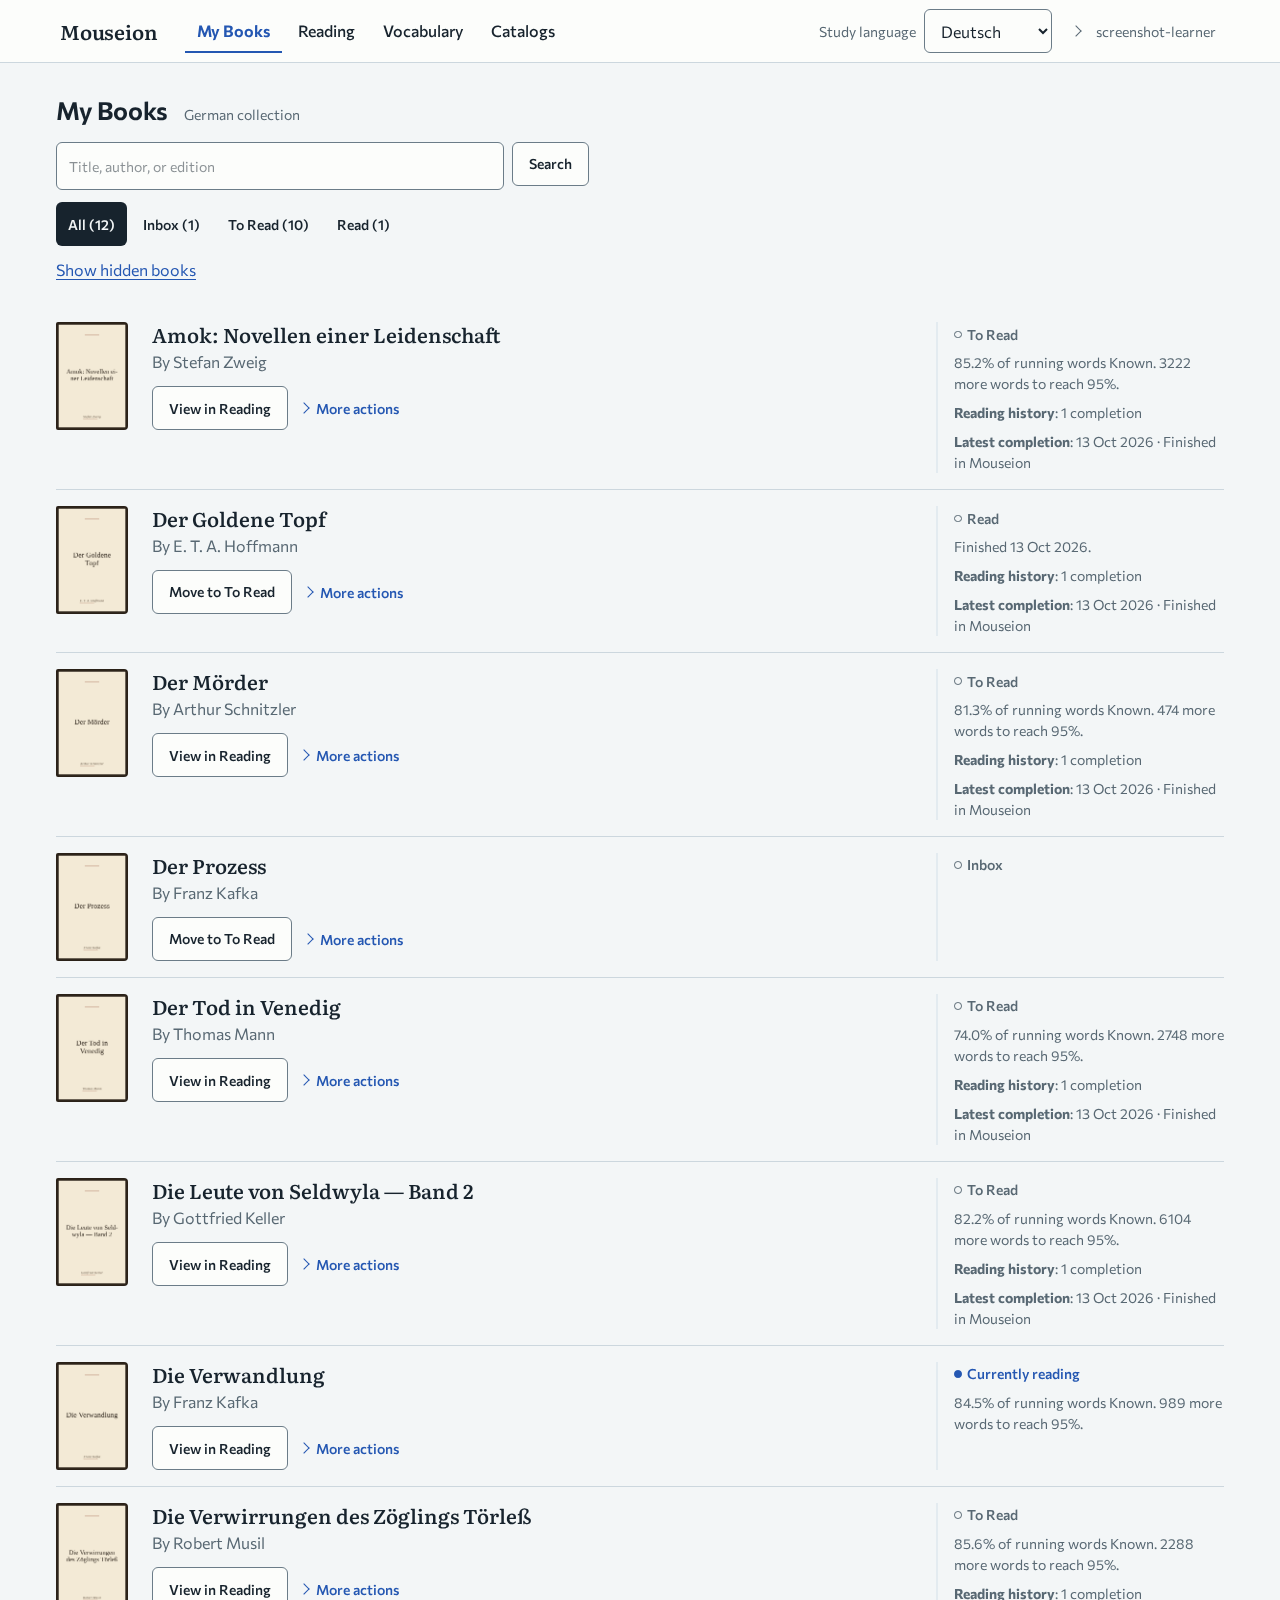
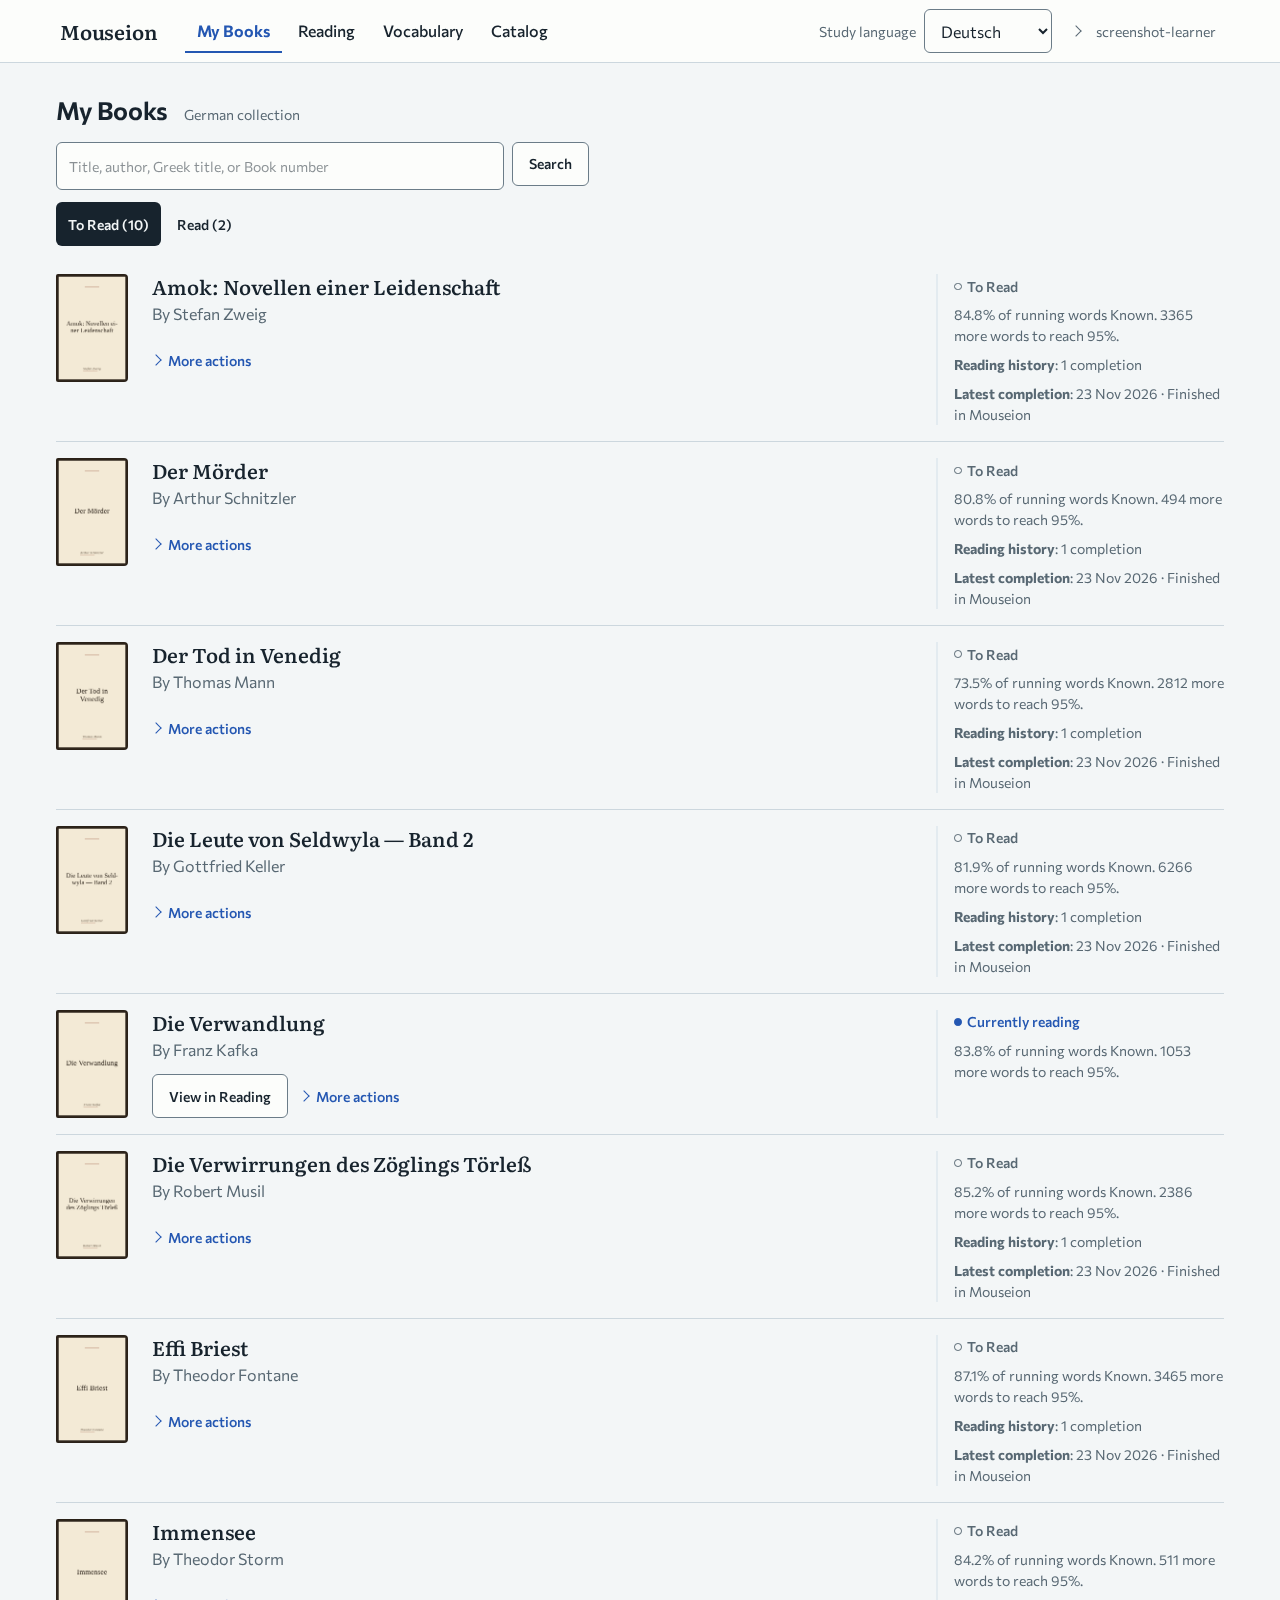
docs(readme): show both My Books tabs in the regenerated screenshots (#2577)

diff --git a/README.md b/README.md
@@ -15,9 +15,13 @@ Mouseion is not a tool for constructing scholarly editions
 The name recalls the Mouseion of Alexandria, the scholarly community that housed
 the Library.
 
-![My Books listing twelve German public-domain novels, each with its cover, its workflow bucket, and its known-vocabulary coverage.](doc/images/my-books.png)
+![My Books on its To Read tab, listing ten German public-domain novels with their covers, the current reading marked Currently reading, and each Book's known-vocabulary coverage and reading history. The To Read and Read tabs sit above the list.](doc/images/my-books.png)
 
-*My Books: the collection of chosen Books, with each Book's known-vocabulary coverage.*
+*My Books, To Read tab: the Books chosen to read, including the current reading, with each Book's known-vocabulary coverage.*
+
+![My Books on its Read tab, listing two Books: one finished in Mouseion and one recorded as read before Mouseion, each with its completion history.](doc/images/my-books-read.png)
+
+*My Books, Read tab: finished Books and Books recorded as previously read.*
 
 ## Why
 
@@ -77,9 +81,13 @@ editions, and every author died before 1956. The run is reproducible with
 
 *Sentence study: an interlinear morphology line for each word, with the complete analyzer evidence in a named disclosure.*
 
-![My Books in the dark color scheme, showing the same collection and workflow buckets as the light view.](doc/images/my-books-dark.png)
+![My Books in the dark color scheme on its To Read tab, showing the same collection and workflow buckets as the light view.](doc/images/my-books-dark.png)
 
-*My Books in the dark color scheme, from the same run.*
+*My Books, To Read tab, in the dark color scheme, from the same run.*
+
+![My Books in the dark color scheme on its Read tab, showing the same two Books as the light view.](doc/images/my-books-read-dark.png)
+
+*My Books, Read tab, in the dark color scheme, from the same run.*
 
 ## Language and text processing
 
